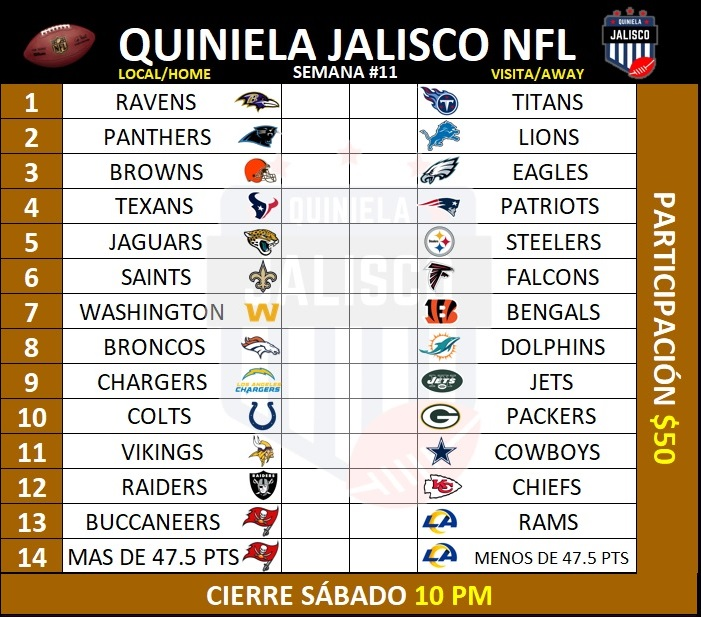
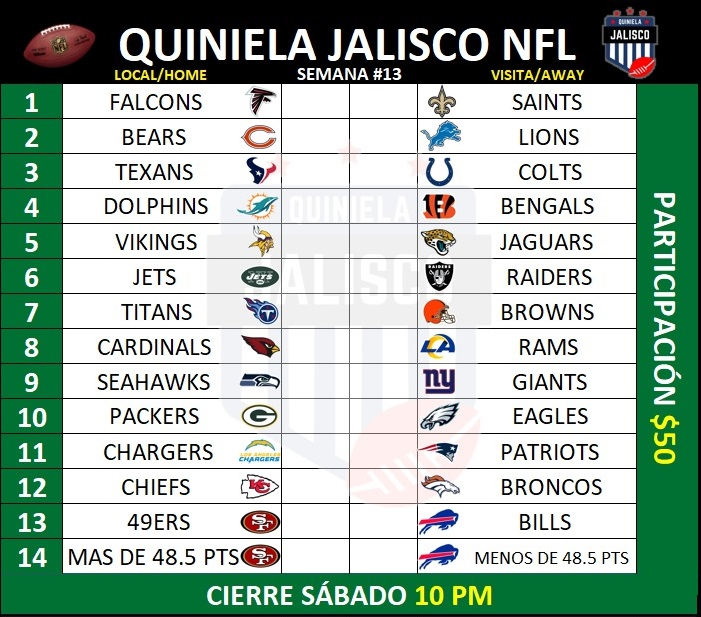
Jornada 13

diff --git a/styles.css b/styles.css
@@ -7,7 +7,7 @@
 
 .quiniela{
     margin: auto;
-    background-image: url("https://scontent.fgdl9-1.fna.fbcdn.net/v/t1.15752-9/126813375_386673365982660_2202693788954206106_n.png?_nc_cat=101&ccb=2&_nc_sid=ae9488&_nc_eui2=AeGb44BLg64kY3Ysc9z_4tza8TqTR4lnpFDxOpNHiWekUFXm4D21DwyCL0LHgrZ3-9TERroLY78JpV5AZOpBF4VE&_nc_ohc=H3OU3mAC8GkAX-wEqPx&_nc_ht=scontent.fgdl9-1.fna&oh=15b8cc1ff0c1fc8f005ee967c16b44eb&oe=5FE358FA");
+    background-image: url("https://scontent.fgdl9-1.fna.fbcdn.net/v/t1.15752-9/128141141_845860479533249_4781033207792068712_n.png?_nc_cat=101&ccb=2&_nc_sid=ae9488&_nc_ohc=QL29EVROXJUAX_iIcr-&_nc_ht=scontent.fgdl9-1.fna&oh=e6ae605b68bee94f5660be04c3136242&oe=5FEDE822");
     background-size: 100%;
     background-repeat: no-repeat;
     max-width: 400px;
